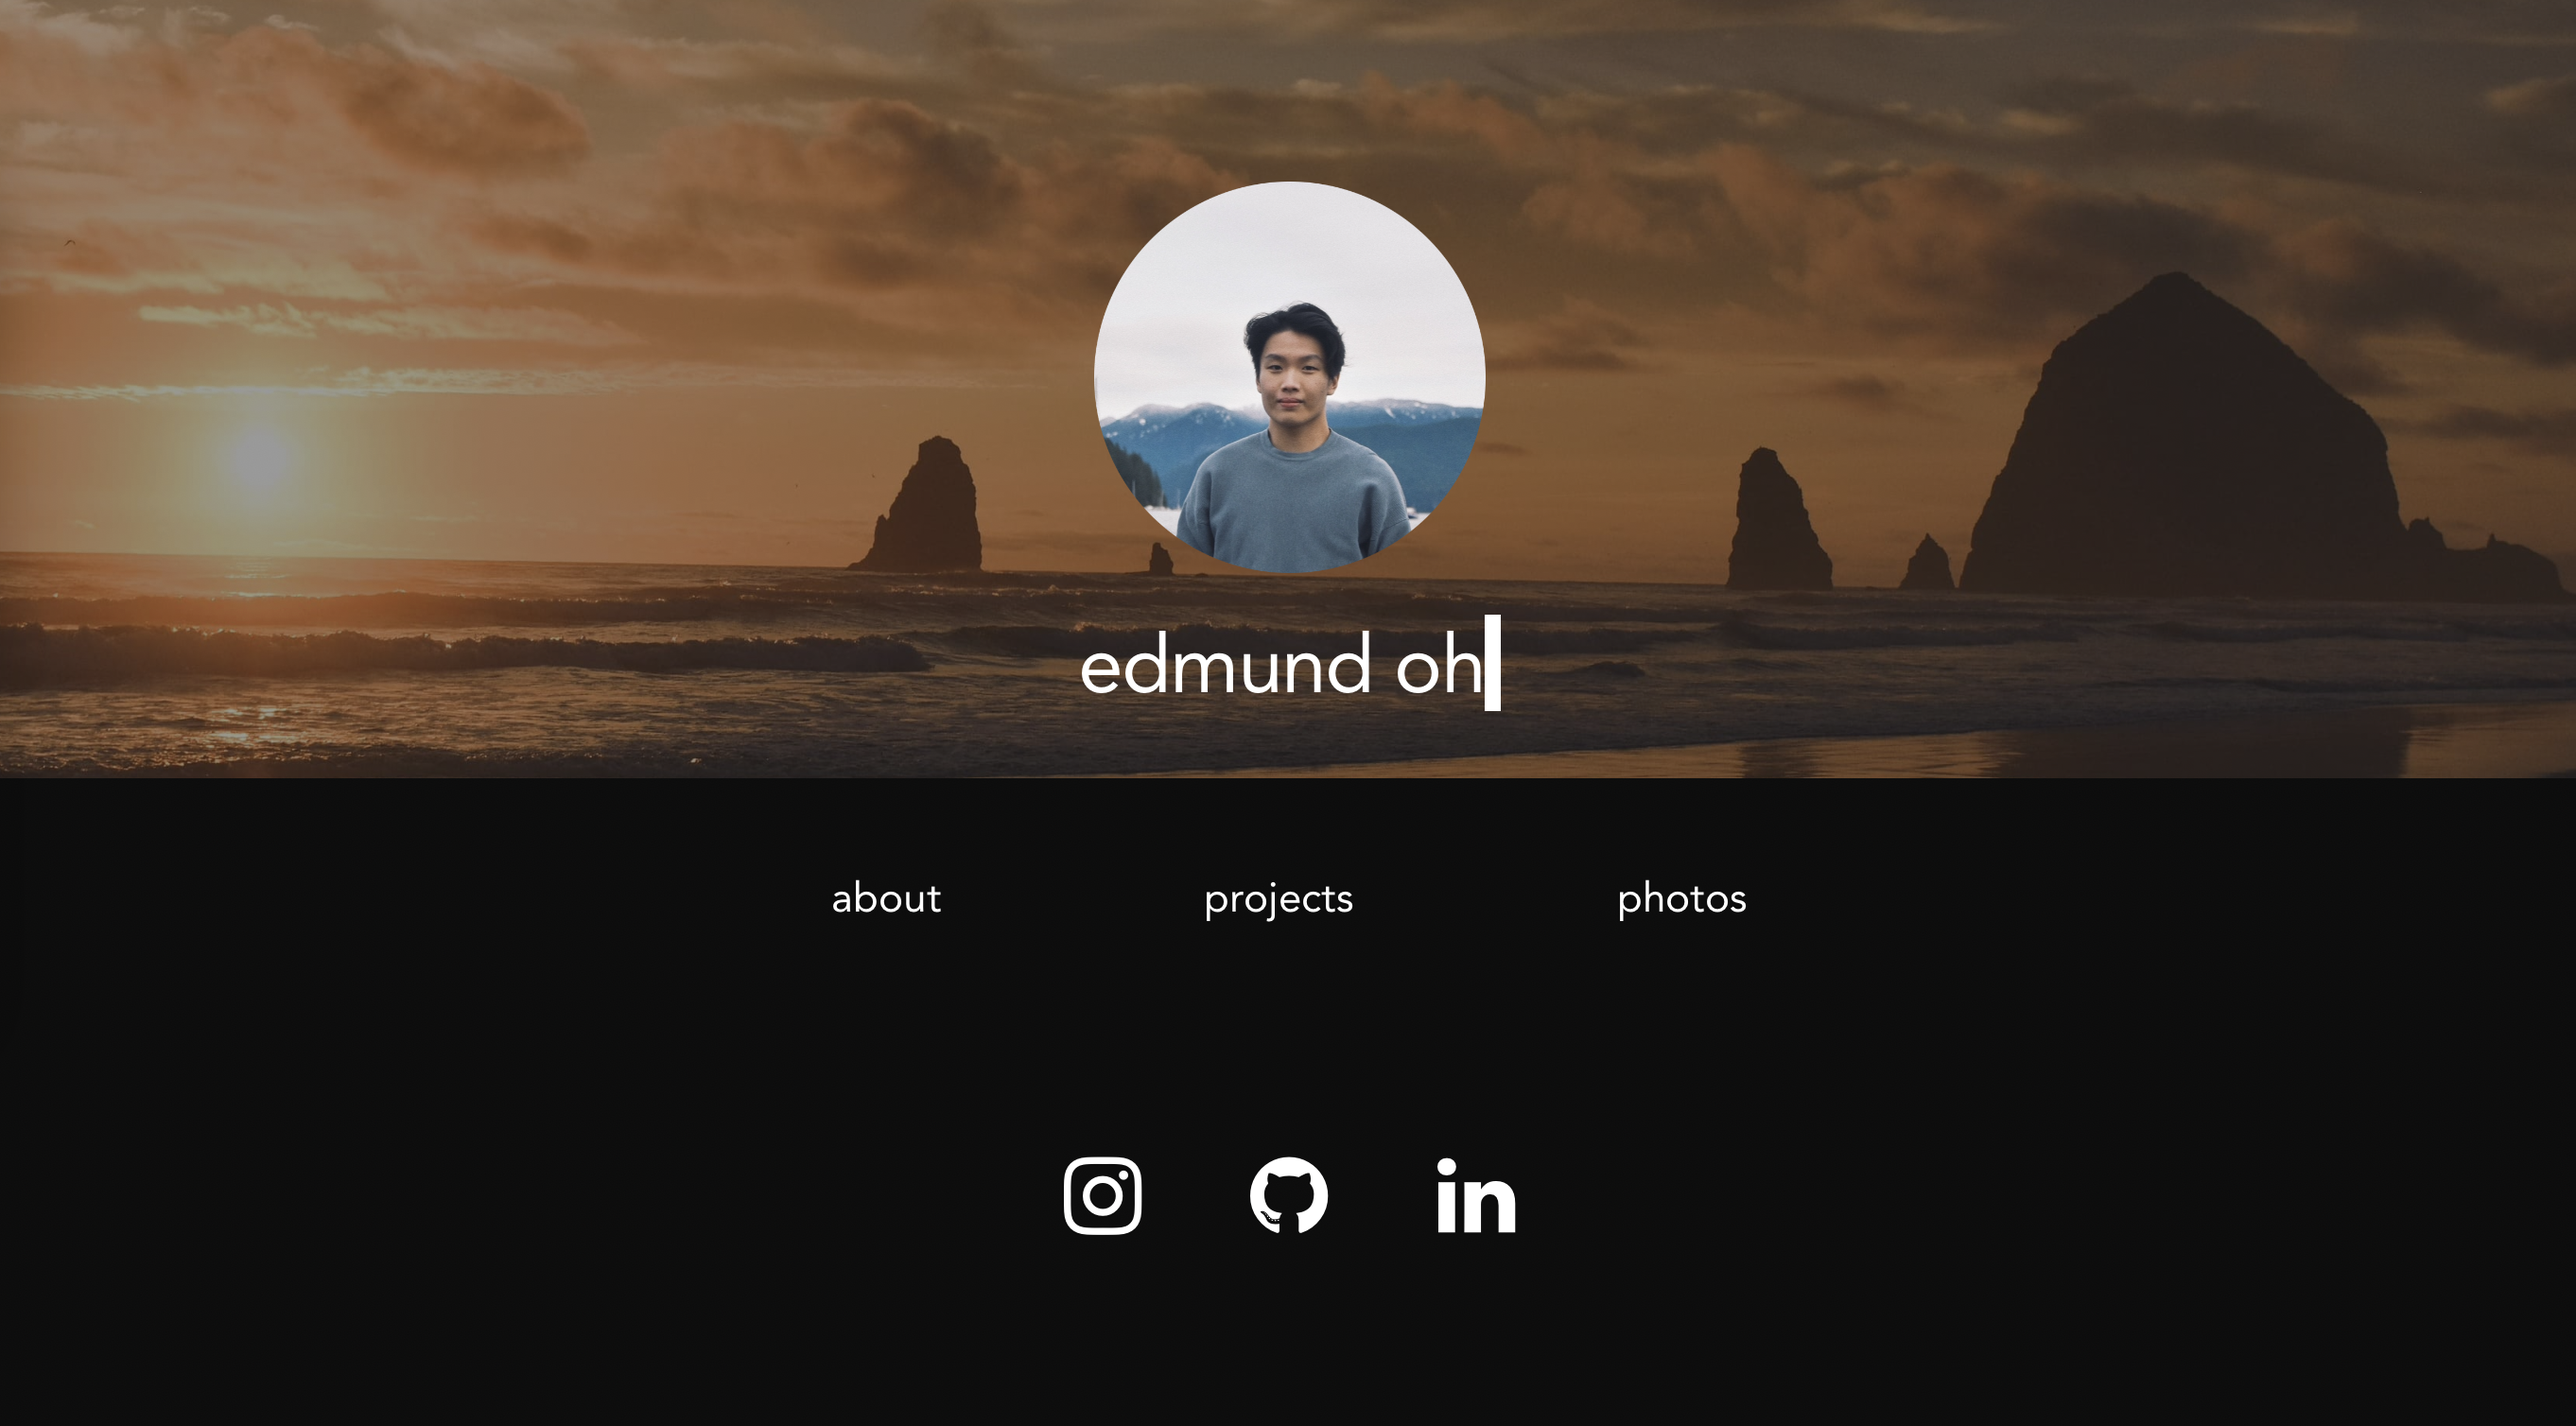
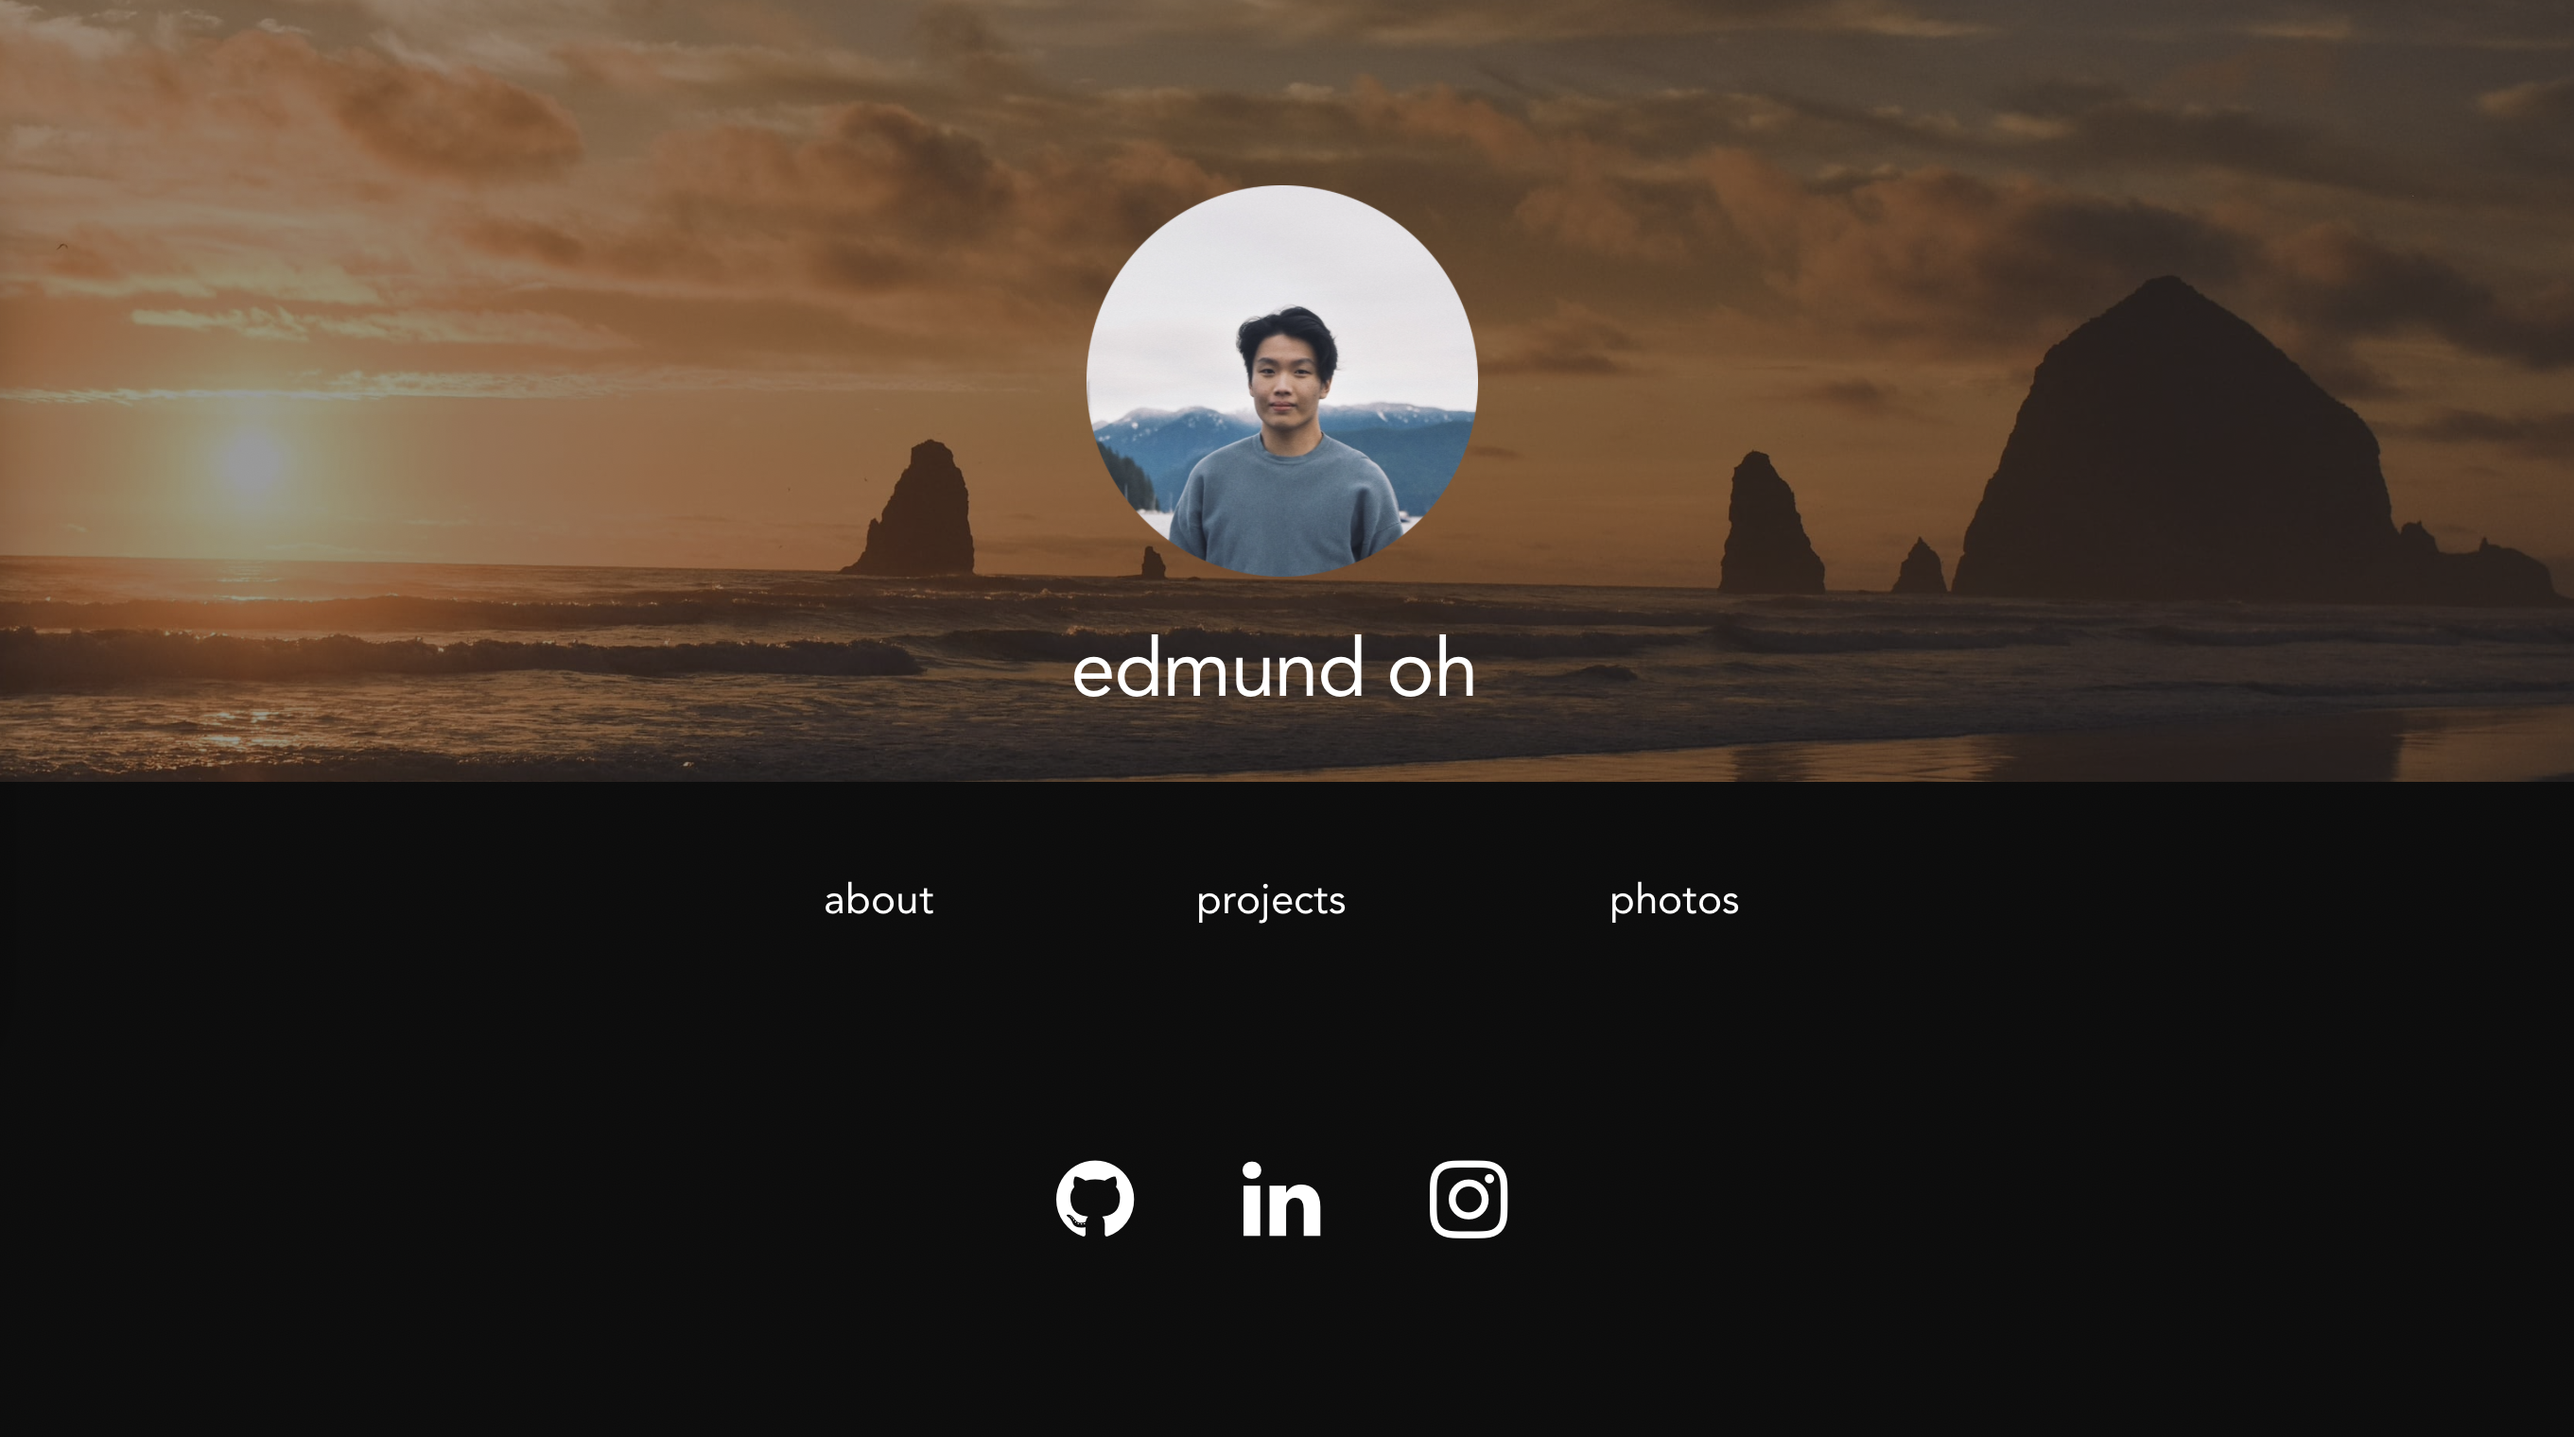
Edit About page

diff --git a/src/components/about.js b/src/components/about.js
@@ -10,15 +10,12 @@ class About extends Component {
 				</div>			    	
 				<div className="description">
 					<p> 
-							I'm currently a 3rd year Computer Science undergraduate student at the University of British Columbia.<br/><br/>
-
+							I'm currently an undergraduate Computer Science student at the University of British Columbia. 
 							Previously, I have worked as a Software Developer Intern at <a href="https://www.sap.com/">SAP</a>.<br/><br/>
 
-							Here are some fun facts about me:<br/><br/>
-
 							<span class="cat-highlight">Interests:</span> Hackathons, Photography, Soccer, Hockey, Music<br/>
-							<span class="cat-highlight">Favourite Food:</span> Fried Chicken<br/>
-							<span class="cat-highlight">Favourite Artists:</span> John Mayer, Kendrick Lamar<br/>
+							<span class="cat-highlight">Favourite Movies:</span> Us, Train to Busan, The Silence of the Lambs<br/>
+							<span class="cat-highlight">Favourite Artists:</span> John Mayer, Kendrick Lamar, Hyukoh, <span class="blackpink">BLACKPINK</span><br/>
 					</p>
 				</div>
 			</div>

diff --git a/src/components/Profile.js b/src/components/Profile.js
@@ -41,9 +41,9 @@ class Profile extends Component {
 			</ul>
 			<ul>
 			  <div className="nav-media">
-					<li><a href="https://www.instagram.com/edmund_oh/"><i class="fa fa-instagram fa-3x" aria-hidden="true"></i></a></li>
 					<li><a href="https://github.com/edmundohh"><i class="fa fa-github fa-3x" aria-hidden="true"></i></a></li>
 					<li><a href="https://www.linkedin.com/in/edmundoh/"><i class="fa fa-linkedin fa-3x" aria-hidden="true"></i></a></li>
+					<li><a href="https://www.instagram.com/edmund_oh/"><i class="fa fa-instagram fa-3x" aria-hidden="true"></i></a></li>
 			  </div>
 			</ul>
 		  </div>

diff --git a/src/components/projects.js b/src/components/projects.js
@@ -12,7 +12,7 @@ const projects = [
 	{
 		photo: TeePartyPhoto,
 		title: "TeeParty",
-		skills: ["React Native", "Node.js", "Express.js", "MongoDB"],
+		skills: ["React Native", "Node.js", "MongoDB"],
 		description: "A mobile app that enables a friendly competition between you and your friends by logging your scores at your favourite golf course. Follow other players to keep up with their score logs and view them on the leaderboard.",
 		ghLink: "https://github.com/edmundohh/TeeParty",
 	},

diff --git a/src/css/About.css b/src/css/About.css
@@ -25,7 +25,7 @@
   color: rgb(252, 142, 16);
   text-align: center;
   font-family: "Avenir Book";
-  font-size: 30px;
+  font-size: 32px;
 }
 
 .description
@@ -57,6 +57,12 @@
   color: rgb(85, 85, 85);
 }
 
+.blackpink
+{
+  font-size: 7px;
+  color: rgb(175, 175, 175);
+}
+
 .cat-highlight
 {
   color:rgb(252, 142, 16);
@@ -68,6 +74,11 @@
   {
     padding-top: 3vh;
     padding-bottom: 3vh;
+  }
+
+  .blackpink
+  {
+    color: rgb(50, 50, 50);
   }
 
   .description

diff --git a/src/css/Projects.css b/src/css/Projects.css
@@ -74,8 +74,8 @@
     font-size: 14px;
     text-decoration: none;
     border: 1px solid rgb(170, 170, 170);
-    border-radius: 9px;
-    padding: 5px 16px;
+    border-radius: 13px;
+    padding: 7px 15px;
     padding-bottom: 3px;
     margin: 5px;
     display: flex;
